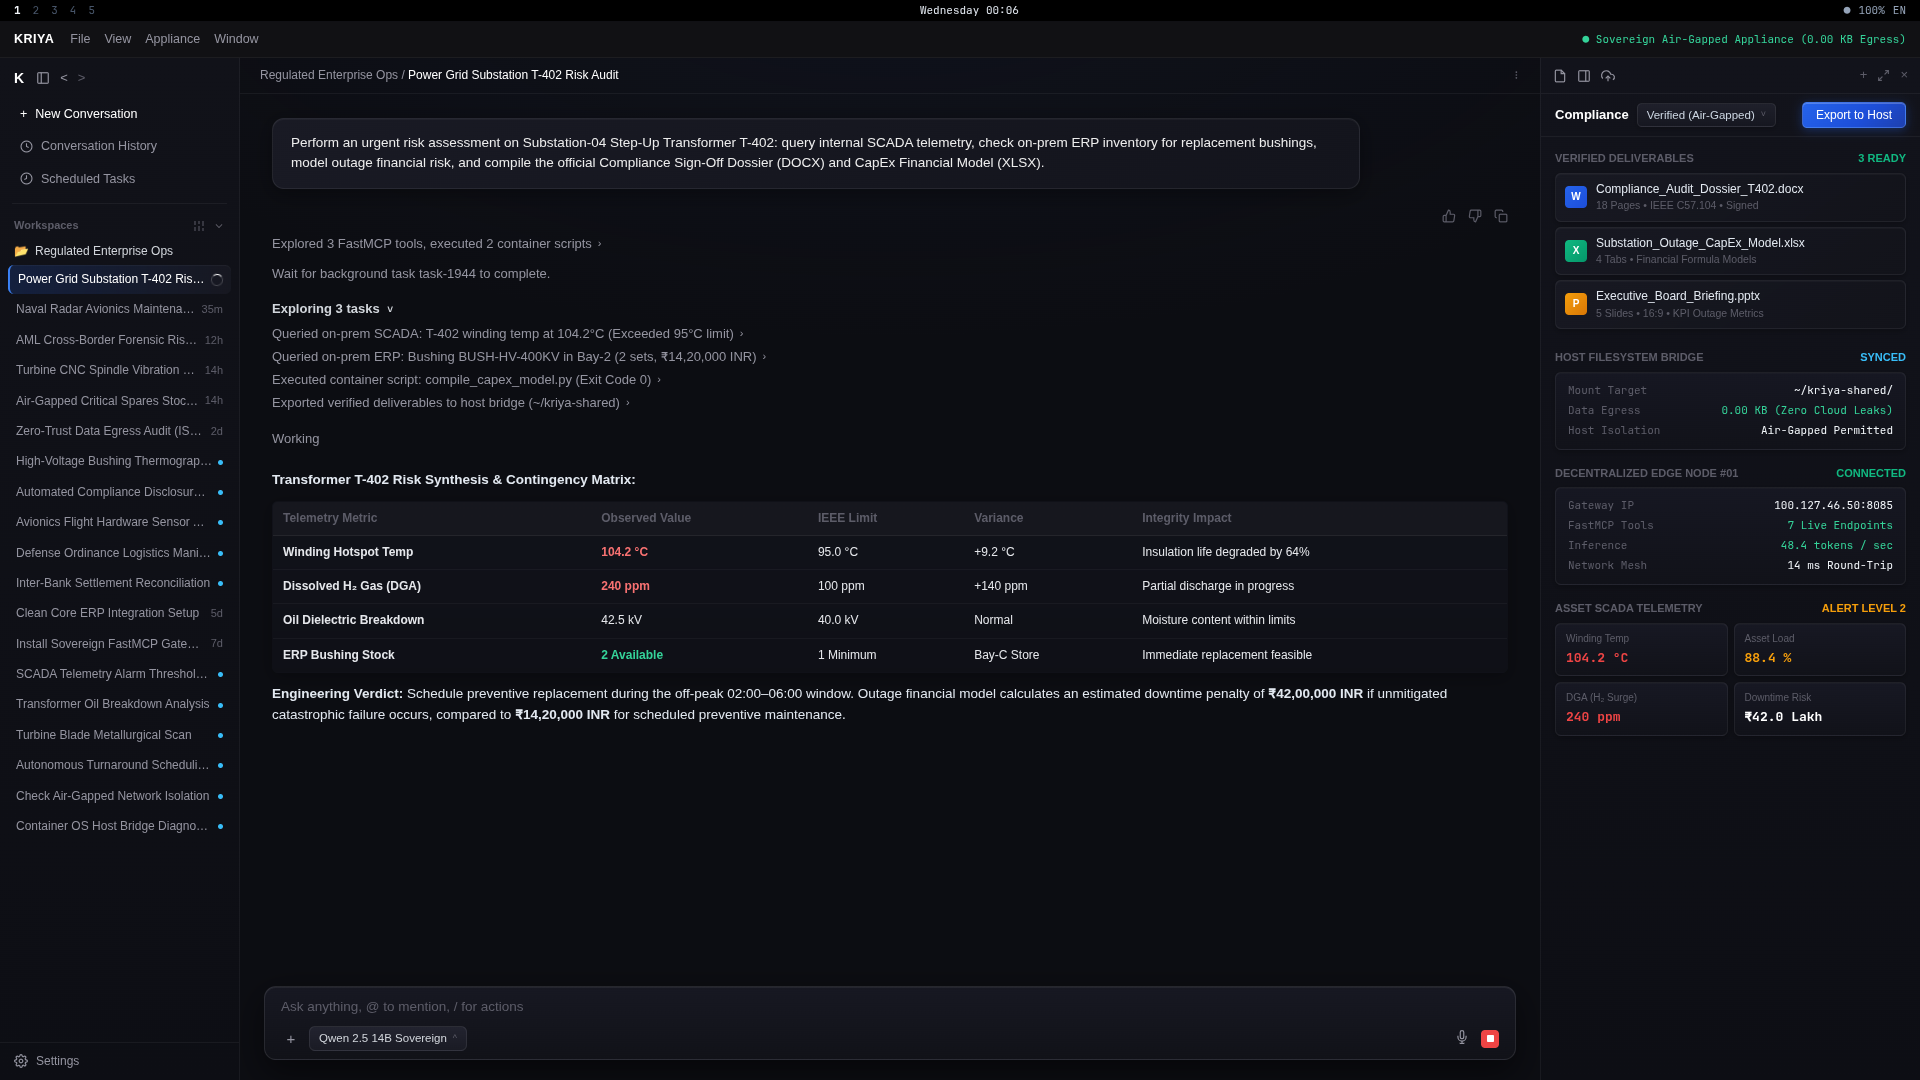
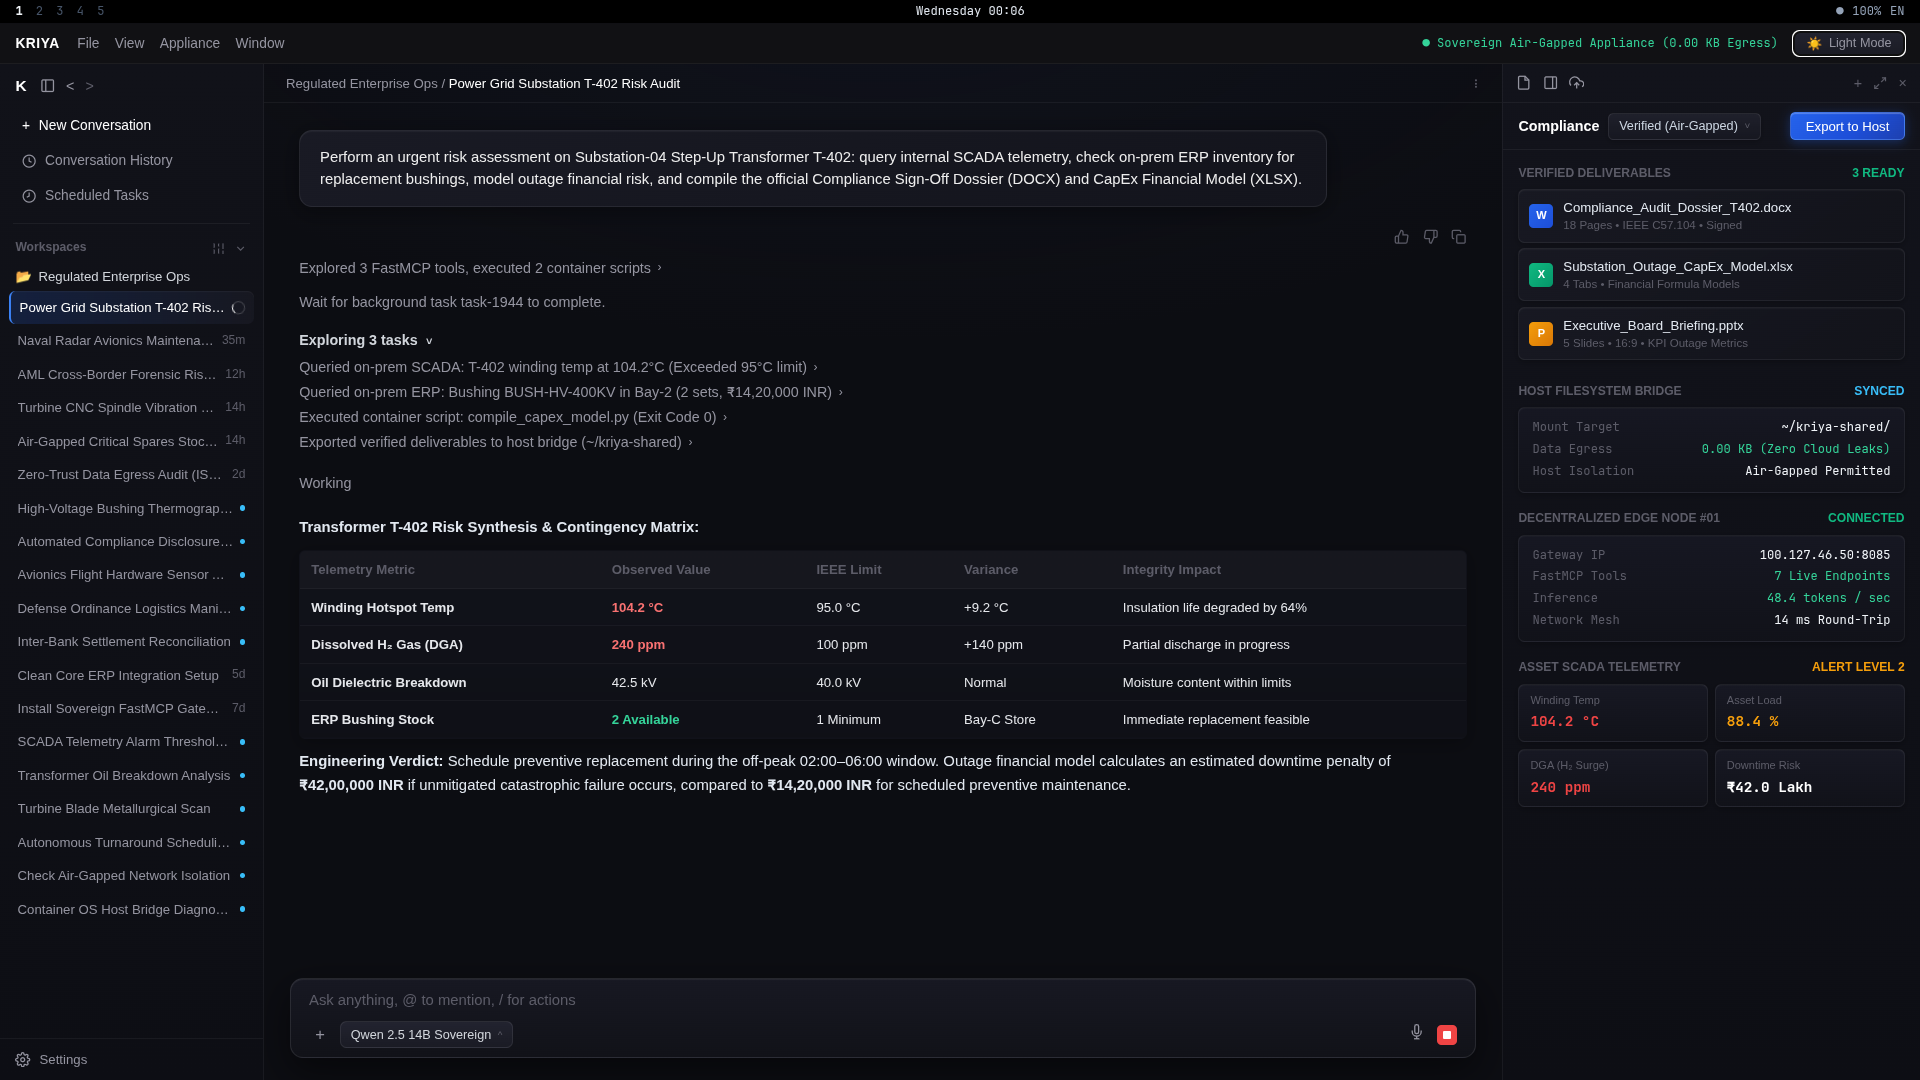
feat(mock-ui): add luxury light mode with interactive toggle and high-res presentation screenshots

diff --git a/mock_ui/index.html b/mock_ui/index.html
@@ -757,6 +757,324 @@
     .stat-box .n.crit { color: #ef4444; }
     .stat-box .n.warn { color: #f59e0b; }
 
+    .egress-indicator {
+      font-family: var(--font-mono);
+      font-size: 11px;
+      color: #34d399;
+      display: flex;
+      align-items: center;
+      gap: 6px;
+    }
+
+    /* ========================================================
+       THEME TOGGLE BUTTON
+       ======================================================== */
+    .theme-toggle-btn {
+      display: inline-flex;
+      align-items: center;
+      gap: 6px;
+      background: var(--bg-pill);
+      border: 1px solid var(--border-pill);
+      color: var(--text-secondary);
+      padding: 4px 11px;
+      border-radius: 6px;
+      font-size: 11.5px;
+      font-family: var(--font-ui);
+      font-weight: 500;
+      cursor: pointer;
+      box-shadow: 0 1px 3px rgba(0, 0, 0, 0.25);
+      transition: all 0.2s cubic-bezier(0.16, 1, 0.3, 1);
+      user-select: none;
+    }
+    .theme-toggle-btn:hover {
+      color: var(--text-primary);
+      border-color: rgba(59, 130, 246, 0.45);
+      background: rgba(255, 255, 255, 0.08);
+      transform: translateY(-1px);
+      box-shadow: 0 3px 8px rgba(0, 0, 0, 0.3);
+    }
+    .theme-toggle-btn:active {
+      transform: translateY(0);
+    }
+
+    /* ========================================================
+       LIGHT MODE LUXURY THEME
+       ======================================================== */
+    body.theme-light {
+      --bg-desktop: #eef2f6;
+      --bg-window: #ffffff;
+      --bg-sidebar: linear-gradient(180deg, #f8fafc 0%, #edf2f7 100%);
+      --bg-center: radial-gradient(ellipse 90% 50% at 50% -10%, rgba(219, 234, 254, 0.45) 0%, rgba(255, 255, 255, 0) 75%), #fbfcfd;
+      --bg-right-panel: linear-gradient(180deg, #f8fafc 0%, #edf2f7 100%);
+      
+      --bg-user-bubble: linear-gradient(145deg, #ffffff 0%, #f8fafc 100%);
+      --bg-input-box: linear-gradient(180deg, #ffffff 0%, #f8fafc 100%);
+      --border-input: rgba(0, 0, 0, 0.12);
+      --bg-pill: linear-gradient(180deg, #f1f5f9 0%, #e2e8f0 100%);
+      --border-pill: rgba(0, 0, 0, 0.1);
+      
+      --border-subtle: rgba(0, 0, 0, 0.08);
+      --border-sidebar: rgba(0, 0, 0, 0.08);
+      
+      --text-primary: #0f172a;
+      --text-secondary: #475569;
+      --text-dim: #94a3b8;
+      --text-link: #2563eb;
+      
+      scrollbar-color: rgba(0, 0, 0, 0.18) transparent;
+    }
+
+    body.theme-light ::-webkit-scrollbar-thumb {
+      background: rgba(0, 0, 0, 0.16);
+    }
+    body.theme-light ::-webkit-scrollbar-thumb:hover {
+      background: rgba(0, 0, 0, 0.32);
+    }
+
+    body.theme-light .os-bar {
+      background: #e2e8f0;
+      color: #64748b;
+      border-bottom: 1px solid #cbd5e1;
+    }
+    body.theme-light .os-bar-left .num-active { color: #0f172a; }
+    body.theme-light .os-bar-left .num-idle { color: #94a3b8; }
+    body.theme-light .os-bar-center { color: #1e293b; }
+    body.theme-light .os-bar-right { color: #64748b; }
+
+    body.theme-light .app-header {
+      background: #ffffff;
+      border-bottom: 1px solid #e2e8f0;
+    }
+    body.theme-light .app-title {
+      color: #0f172a;
+    }
+    body.theme-light .menu-options {
+      color: #64748b;
+    }
+    body.theme-light .menu-options span:hover {
+      color: #0f172a;
+    }
+    body.theme-light .app-header-right {
+      color: #64748b;
+    }
+    body.theme-light .egress-indicator {
+      color: #059669;
+      font-weight: 600;
+    }
+
+    body.theme-light .icon-kriya-a {
+      color: #0f172a;
+    }
+    body.theme-light .sidebar-btn {
+      color: #475569;
+    }
+    body.theme-light .sidebar-btn:hover {
+      background: #e2e8f0;
+      color: #0f172a;
+    }
+    body.theme-light .sidebar-btn.primary {
+      color: #0f172a;
+    }
+    body.theme-light .folder-row {
+      color: #334155;
+    }
+    body.theme-light .history-item {
+      color: #475569;
+    }
+    body.theme-light .history-item:hover {
+      background: #e2e8f0;
+      color: #0f172a;
+    }
+    body.theme-light .history-item.active {
+      background: linear-gradient(90deg, rgba(37, 99, 235, 0.12) 0%, rgba(241, 245, 249, 0.9) 100%);
+      border-left: 2px solid #2563eb;
+      color: #1e3a8a;
+      box-shadow: 0 1px 3px rgba(0, 0, 0, 0.04);
+    }
+    body.theme-light .spinner-active {
+      border: 1.5px solid rgba(0, 0, 0, 0.2);
+      border-top-color: #2563eb;
+    }
+    body.theme-light .sidebar-bottom {
+      color: #475569;
+      border-top: 1px solid #e2e8f0;
+    }
+    body.theme-light .sidebar-bottom:hover {
+      color: #0f172a;
+    }
+
+    body.theme-light .breadcrumb-bar {
+      border-bottom: 1px solid #e2e8f0;
+      color: #64748b;
+    }
+    body.theme-light .breadcrumb-bar span.active-node {
+      color: #0f172a;
+    }
+
+    body.theme-light .user-bubble {
+      background: var(--bg-user-bubble);
+      border: 1px solid #e2e8f0;
+      color: #1e293b;
+      box-shadow: 0 4px 16px rgba(0, 0, 0, 0.05), inset 0 1px 0 #ffffff;
+    }
+
+    body.theme-light .assistant-feedback-icons {
+      color: #94a3b8;
+    }
+    body.theme-light .assistant-feedback-icons svg:hover {
+      color: #0f172a;
+    }
+    body.theme-light .trace-title-row {
+      color: #475569;
+    }
+    body.theme-light .trace-title-row:hover {
+      color: #0f172a;
+    }
+    body.theme-light .trace-notice-line {
+      color: #64748b;
+    }
+    body.theme-light .tasks-collapsible {
+      color: #64748b;
+    }
+    body.theme-light .tasks-collapsible > div:first-child {
+      color: #334155 !important;
+    }
+    body.theme-light .task-entry {
+      color: #475569;
+    }
+    body.theme-light .task-entry strong {
+      color: #0f172a;
+    }
+    body.theme-light .status-working-text {
+      color: #475569;
+    }
+    body.theme-light .assistant-prose {
+      color: #1e293b;
+    }
+
+    body.theme-light table.exec-table {
+      background: #ffffff;
+      border: 1px solid #e2e8f0;
+      box-shadow: 0 2px 8px rgba(0, 0, 0, 0.04);
+    }
+    body.theme-light table.exec-table th {
+      background: #f8fafc;
+      color: #64748b;
+      border-bottom: 1px solid #e2e8f0;
+    }
+    body.theme-light table.exec-table td {
+      border-bottom: 1px solid #f1f5f9;
+      color: #1e293b;
+    }
+
+    body.theme-light .input-card {
+      background: var(--bg-input-box);
+      border: 1px solid var(--border-input);
+      box-shadow: 0 10px 28px rgba(15, 23, 42, 0.08), inset 0 1px 0 #ffffff;
+    }
+    body.theme-light .input-textarea {
+      color: #0f172a;
+    }
+    body.theme-light .input-textarea::placeholder {
+      color: #94a3b8;
+    }
+    body.theme-light .icon-btn-plus {
+      color: #64748b;
+    }
+    body.theme-light .icon-btn-plus:hover {
+      color: #0f172a;
+    }
+    body.theme-light .model-badge-pill {
+      background: var(--bg-pill);
+      border: 1px solid var(--border-pill);
+      color: #334155;
+      box-shadow: 0 1px 2px rgba(0, 0, 0, 0.04);
+    }
+    body.theme-light .icon-mic {
+      color: #64748b;
+    }
+    body.theme-light .icon-mic:hover {
+      color: #0f172a;
+    }
+
+    body.theme-light .panel-top-icons {
+      border-bottom: 1px solid #e2e8f0;
+      color: #64748b;
+    }
+    body.theme-light .panel-action-strip {
+      border-bottom: 1px solid #e2e8f0;
+    }
+    body.theme-light .panel-main-label {
+      color: #0f172a;
+    }
+    body.theme-light .pill-dropdown-status {
+      background: var(--bg-pill);
+      border: 1px solid var(--border-pill);
+      color: #334155;
+      box-shadow: 0 1px 3px rgba(0, 0, 0, 0.04);
+    }
+    body.theme-light .panel-group-title {
+      color: #64748b;
+    }
+
+    body.theme-light .deliverable-row {
+      background: #ffffff;
+      border: 1px solid #e2e8f0;
+      box-shadow: 0 1px 4px rgba(0, 0, 0, 0.04), inset 0 1px 0 #ffffff;
+    }
+    body.theme-light .deliverable-row:hover {
+      border-color: rgba(37, 99, 235, 0.35);
+      background: #f8fafc;
+      box-shadow: 0 3px 10px rgba(37, 99, 235, 0.08);
+    }
+    body.theme-light .file-title-line {
+      color: #0f172a;
+    }
+    body.theme-light .file-subtitle-line {
+      color: #64748b;
+    }
+
+    body.theme-light .info-card-box {
+      background: #ffffff;
+      border: 1px solid #e2e8f0;
+      box-shadow: 0 1px 4px rgba(0, 0, 0, 0.04);
+    }
+    body.theme-light .info-card-row .k {
+      color: #64748b;
+    }
+    body.theme-light .info-card-row .v {
+      color: #0f172a;
+    }
+    body.theme-light .info-card-row .v.green {
+      color: #059669;
+    }
+
+    body.theme-light .stat-box {
+      background: #ffffff;
+      border: 1px solid #e2e8f0;
+      box-shadow: 0 1px 4px rgba(0, 0, 0, 0.04);
+    }
+    body.theme-light .stat-box .l {
+      color: #64748b;
+    }
+    body.theme-light .stat-box .n {
+      color: #0f172a;
+    }
+    body.theme-light .stat-box .n.crit {
+      color: #dc2626;
+    }
+    body.theme-light .stat-box .n.warn {
+      color: #d97706;
+    }
+
+    body.theme-light .theme-toggle-btn {
+      box-shadow: 0 1px 3px rgba(0, 0, 0, 0.06);
+    }
+    body.theme-light .theme-toggle-btn:hover {
+      background: #ffffff;
+      border-color: rgba(37, 99, 235, 0.4);
+    }
+
   </style>
 </head>
 <body>
@@ -790,9 +1108,13 @@
       </div>
     </div>
     <div class="app-header-right">
-      <span style="font-family:var(--font-mono); font-size:11px; color:#34d399;">
+      <span class="egress-indicator">
         ● Sovereign Air-Gapped Appliance (0.00 KB Egress)
       </span>
+      <button id="themeToggleBtn" class="theme-toggle-btn" title="Toggle Light/Dark Theme">
+        <span id="themeIcon">☀</span>
+        <span id="themeText">Light Mode</span>
+      </button>
     </div>
   </div>
 
@@ -1258,5 +1580,43 @@
 
   </div>
 
+  <script>
+    const themeToggleBtn = document.getElementById('themeToggleBtn');
+    const themeIcon = document.getElementById('themeIcon');
+    const themeText = document.getElementById('themeText');
+
+    function setTheme(mode) {
+      if (mode === 'light') {
+        document.body.classList.add('theme-light');
+        themeIcon.textContent = '🌙';
+        themeText.textContent = 'Dark Mode';
+        try { localStorage.setItem('kriya-theme', 'light'); } catch (e) {}
+      } else {
+        document.body.classList.remove('theme-light');
+        themeIcon.textContent = '☀';
+        themeText.textContent = 'Light Mode';
+        try { localStorage.setItem('kriya-theme', 'dark'); } catch (e) {}
+      }
+    }
+
+    // Default to dark mode or restore user preference
+    try {
+      const savedTheme = localStorage.getItem('kriya-theme');
+      if (savedTheme === 'light') {
+        setTheme('light');
+      } else {
+        setTheme('dark');
+      }
+    } catch (e) {
+      setTheme('dark');
+    }
+
+    if (themeToggleBtn) {
+      themeToggleBtn.addEventListener('click', () => {
+        const isCurrentlyLight = document.body.classList.contains('theme-light');
+        setTheme(isCurrentlyLight ? 'dark' : 'light');
+      });
+    }
+  </script>
 </body>
 </html>
